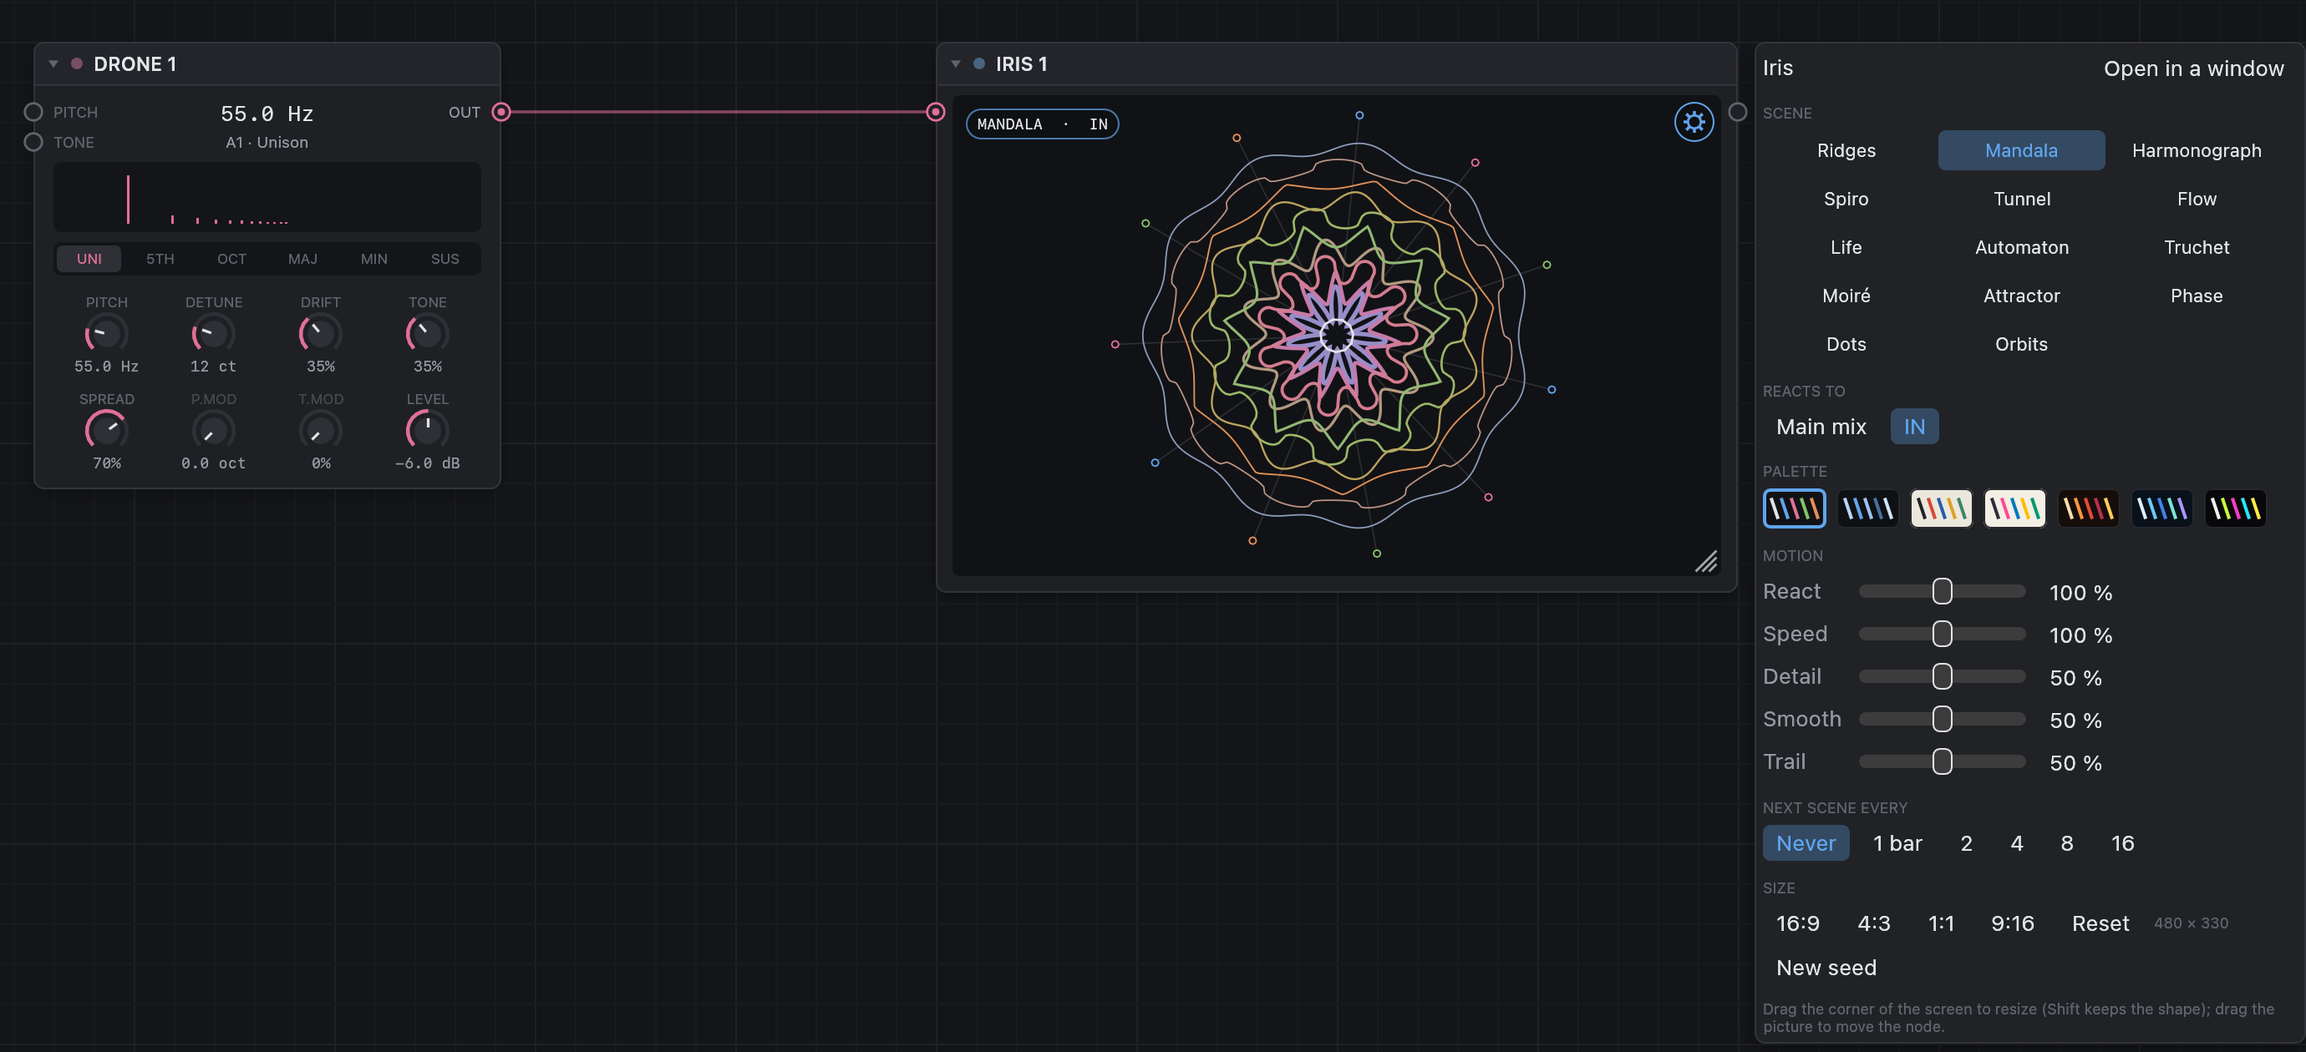
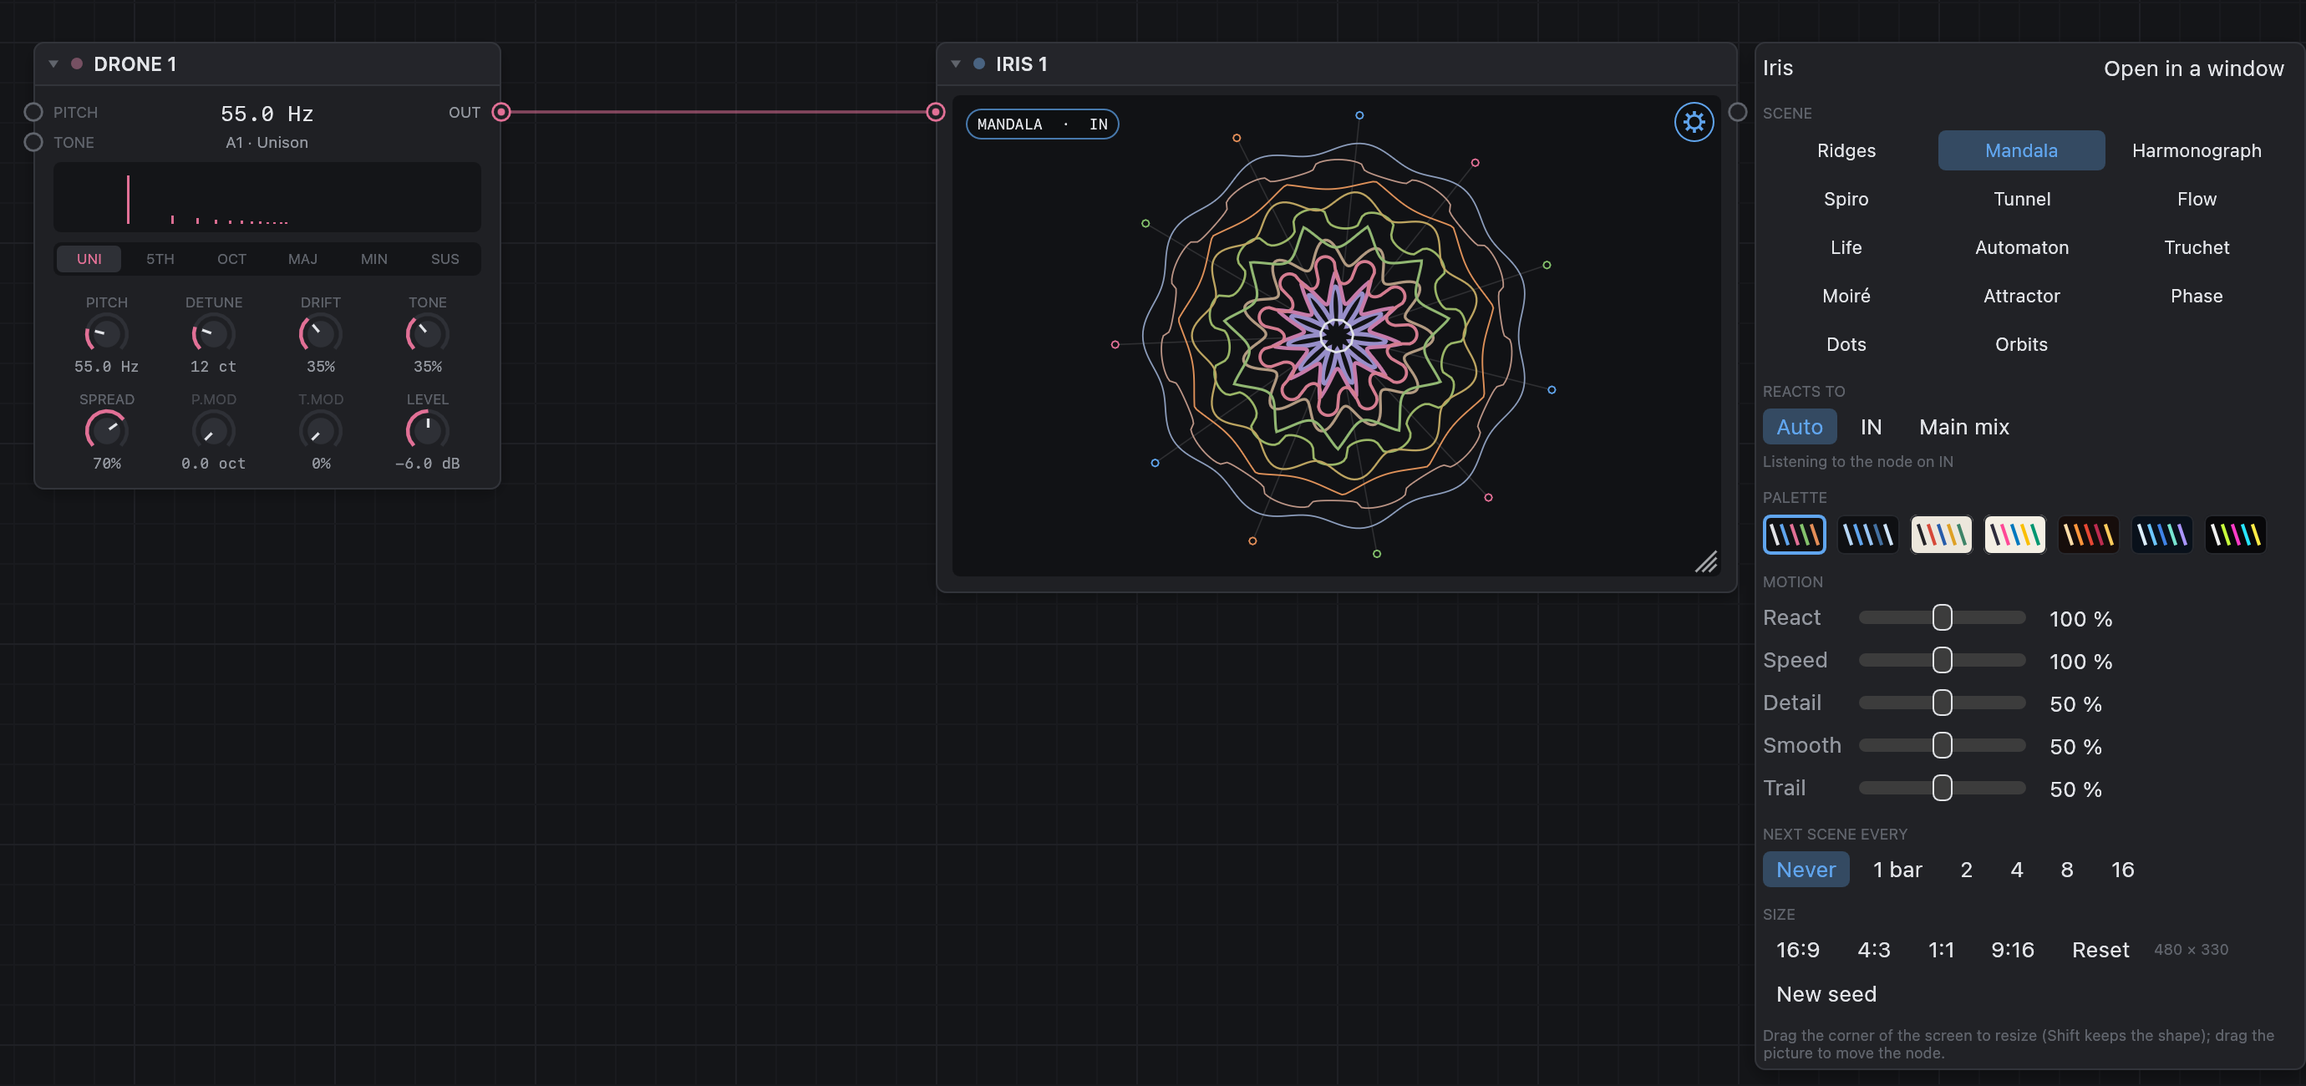
fixed viz

diff --git a/website/nodes.html b/website/nodes.html
@@ -646,16 +646,16 @@
     <article class="card" id="node-iris" tabindex="0" role="button" data-group="visual" data-group-label="Visual" data-name="Iris" data-after="fourteen scenes: geometric, mathematical, generative" data-shots="assets/shots/iris-mandala.png|MANDALA,assets/shots/iris-ridges.png|RIDGES,assets/shots/iris-harmonograph.png|HARMONOGRAPH,assets/shots/iris-spiro.png|SPIRO,assets/shots/iris-tunnel.png|TUNNEL,assets/shots/iris-flow.png|FLOW,assets/shots/iris-life.png|LIFE,assets/shots/iris-automaton.png|AUTOMATON,assets/shots/iris-truchet.png|TRUCHET,assets/shots/iris-moire.png|MOIRE,assets/shots/iris-attractor.png|ATTRACTOR,assets/shots/iris-phase.png|PHASE,assets/shots/iris-dots.png|DOTS,assets/shots/iris-orbits.png|ORBITS" data-keys="video visuals visualizer vj scope spectrum mandala tunnel truchet moire attractor life automaton harmonograph spirograph" style="--accent: var(--yellow)">
       <div class="thumb"><img src="assets/shots/iris-mandala.png" width="1136" height="772" loading="lazy" alt="Iris showing its Mandala scene"></div>
       <div class="meta"><div class="row"><h3>Iris</h3><span class="label">Video</span></div>
-        <p>A screen on the board with fourteen scenes that follow the main mix or the node on its IN. Resize it from its corner; set it up in a popup beside it.</p></div>
+        <p>A screen on the board with fourteen scenes that follow the node on its IN, or the main mix while IN is free. Resize it from its corner; set it up in a popup beside it.</p></div>
       <div class="more">
-        <p>It listens to the <b>main mix</b> (with nothing patched) or to its <b>IN</b>, so it can follow one node; <b>THRU</b> passes IN on unchanged, so Iris can sit inside a chain. It keeps running, with the nodes feeding it, even when THRU goes nowhere.</p>
+        <p>It listens to the node patched into its <b>IN</b>, and only that one, or to the <b>main mix</b> while IN is free (<b>Auto</b>); the settings can force <b>IN</b> or <b>Main mix</b>. <b>THRU</b> passes IN on unchanged, so Iris can sit inside a chain. It keeps running, with the nodes feeding it, even when THRU goes nowhere.</p>
         <ul>
           <li><b>Geometric.</b> Mandala (rings of petals, 5- to 16-fold symmetry), Tunnel (polygons flying out of a vanishing point), Truchet (tiles flipping in waves on onsets), Moiré (overprinted rings), Dots (a dot-matrix spectrum), Orbits (planets in a polyrhythm).</li>
           <li><b>Mathematical.</b> Harmonograph (a damped pendulum drawing), Spiro (nested hypotrochoids), Attractor (a Clifford attractor drifting with the sound), Phase (the sound against itself: a tone draws a circle), Ridges (pulsar lines scrolling up).</li>
           <li><b>Generative.</b> Flow (particles on a flow field, bursting on onsets), Life (Conway's Game of Life seeded by the spectrum), Automaton (an elementary cellular automaton the spectrum writes into, changing rule on onsets).</li>
           <li><b>Analysis.</b> A 2048-point spectrum in 32 bands, level, bass, mids, highs, pitch and onsets, all on the UI thread: the audio thread only copies samples.</li>
           <li><b>The screen.</b> Drag the picture to move the node, the corner grip to resize it (Shift keeps its shape). The scene's name, the gear and the grip show only under the pointer.</li>
-          <li><b>Settings</b> in a popup beside the node: scene, source, seven palettes (Board, Mono, Paper, Riso, Ember, Ice, Acid), REACT, SPEED, DETAIL, SMOOTH, TRAIL, a new scene every 1 to 16 bars, the screen's shape, a new seed.</li>
+          <li><b>Settings</b> in a popup beside the node: scene, source (Auto, IN, Main mix), seven palettes (Board, Mono, Paper, Riso, Ember, Ice, Acid), REACT, SPEED, DETAIL, SMOOTH, TRAIL, a new scene every 1 to 16 bars, the screen's shape, a new seed.</li>
           <li><b>Open in a window</b> for a second display or a projector; double-click for full screen.</li>
         </ul>
       </div>

diff --git a/website/guide.html b/website/guide.html
@@ -196,13 +196,13 @@
     <section id="iris">
       <h2><span class="n">10</span>Visuals: Iris</h2>
       <figure>
-        <img src="assets/shots/iris-ui-1x.png" srcset="assets/shots/iris-ui-1x.png 1380w, assets/shots/iris-ui.png 2760w" sizes="(max-width: 900px) 100vw, 820px" width="1380" height="630" loading="lazy" alt="A Drone patched into Iris, which shows its Mandala scene; the settings popup is open beside the node, with the scenes, the source, the palettes and the motion sliders." data-zoom="assets/shots/iris-ui.png" data-title="Iris and its settings">
+        <img src="assets/shots/iris-ui-1x.png" srcset="assets/shots/iris-ui-1x.png 1380w, assets/shots/iris-ui.png 2760w" sizes="(max-width: 900px) 100vw, 820px" width="1380" height="650" loading="lazy" alt="A Drone patched into Iris, which shows its Mandala scene; the settings popup is open beside the node, with the scenes, the source, the palettes and the motion sliders." data-zoom="assets/shots/iris-ui.png" data-title="Iris and its settings">
         <figcaption>Iris following a Drone on its IN, with its settings open beside it</figcaption>
       </figure>
-      <p><strong>Iris</strong> (in the <strong>Visual</strong> group) is a screen on the board where visuals react to the sound. With nothing patched it follows the <strong>main mix</strong>; patch a node into its <strong>IN</strong> to follow that one. <strong>THRU</strong> passes the sound on unchanged, so Iris can sit inside a chain.</p>
+      <p><strong>Iris</strong> (in the <strong>Visual</strong> group) is a screen on the board where visuals react to the sound. Patch a node into its <strong>IN</strong> and it follows that node only; with IN free it follows the <strong>main mix</strong>, everything the board plays. The settings can force either one (<strong>Auto</strong>, <strong>IN</strong>, <strong>Main mix</strong>). <strong>THRU</strong> passes the sound on unchanged, so Iris can sit inside a chain.</p>
       <ul>
         <li><strong>Move and resize</strong>: drag the picture to move the node; while the pointer is over it, a grip appears in the bottom right corner: drag it to resize the screen (<kbd>Shift</kbd> keeps its shape). The scene's name shows at the top left.</li>
-        <li><strong>Settings</strong>: the gear at the top right opens them in a popup <em>beside</em> the node, so the picture stays in view: the scene (fourteen: geometric, mathematical, generative), Main mix or IN, seven palettes, React, Speed, Detail, Smooth, Trail, a new scene every 1 to 16 bars, the screen's shape and a new seed.</li>
+        <li><strong>Settings</strong>: the gear at the top right opens them in a popup <em>beside</em> the node, so the picture stays in view: the scene (fourteen: geometric, mathematical, generative), Auto, IN or Main mix, seven palettes, React, Speed, Detail, Smooth, Trail, a new scene every 1 to 16 bars, the screen's shape and a new seed.</li>
         <li><strong>Open in a window</strong>: the picture in a window of its own, for a second display or a projector. Double-click it for full screen; <kbd>Esc</kbd> leaves full screen, then closes it. It keeps playing when the node is off the view.</li>
       </ul>
       <p>Every scene is in the <a href="nodes.html#node-iris">catalogue</a>, with a picture of each.</p>

diff --git a/src/ui/iris.rs b/src/ui/iris.rs
@@ -72,7 +72,8 @@ pub fn scene_name(i: usize) -> String {
 }
 
 pub fn readout(p: &ModuleParams) -> (String, String) {
-    let source = if iris::listens_to_input(p) { "IN" } else { "main mix" };
+    // What the processor listens to now (Auto follows the cable).
+    let source = if p.viz[viz::FROM_INPUT].get() > 0.5 { "IN" } else { "main mix" };
     (scene_name(scene_of(p)), format!("{} · {}", source, PALETTES[palette_index(p)].name))
 }
 
@@ -1399,7 +1400,7 @@ pub fn draw(v: &NodeView, id: NodeId, accent: Color32, m: &ModuleNode, (input, _
     let now = v.ui.input(|i| i.time);
     let pal = Pal::of(palette_index(p), accent);
     let scene = scene_of(p);
-    let listens_in = iris::listens_to_input(p);
+    let listens_in = iris::listens_to_input(p, input);
     let hovered = v.ui.rect_contains_pointer(v.r(0.0, 0.0, size.x, size.y)) || show_controls();
 
     // The screen and its picture.
@@ -1729,19 +1730,25 @@ fn settings(ui: &mut Ui, id: NodeId, p: &ModuleParams, accent: Color32, input: b
     });
 
     heading(ui, "REACTS TO");
-    let mut source = iris::listens_to_input(p);
+    let source = p.data[data::SOURCE].get().round();
     ui.horizontal(|ui| {
-        if ui.selectable_label(!source, "Main mix").clicked() {
-            source = false;
-        }
-        if ui.selectable_label(source, "IN").clicked() {
-            source = true;
-        }
-        if source && !input {
-            ui.label(RichText::new("nothing patched").small().color(theme::TEXT_FAINT));
+        for (value, label, tip) in [
+            (iris::AUTO, "Auto", "The node patched into IN; the main mix while IN is free"),
+            (iris::INPUT, "IN", "Only what is patched into IN"),
+            (iris::MAIN, "Main mix", "Everything the board plays, even with IN patched"),
+        ] {
+            if ui.selectable_label(source == value, label).on_hover_text(tip).clicked() {
+                p.data[data::SOURCE].set(value);
+            }
         }
     });
-    p.data[data::SOURCE].set(if source { 1.0 } else { 0.0 });
+    let now = match (iris::listens_to_input(p, input), input) {
+        (true, true) => "Listening to the node on IN",
+        (true, false) => "Nothing patched into IN",
+        (false, true) => "Listening to the main mix (IN only goes on to THRU)",
+        (false, false) => "Listening to the main mix",
+    };
+    ui.label(RichText::new(now).small().color(theme::TEXT_FAINT));
 
     heading(ui, "PALETTE");
     let current = palette_index(p);

diff --git a/src/audio/modules/iris.rs b/src/audio/modules/iris.rs
@@ -55,7 +55,8 @@ pub mod data {
     /// The panel's size, in board units (the user resizes it).
     pub const W: usize = 0;
     pub const H: usize = 1;
-    /// What it listens to: 0 the main mix, 1 its IN.
+    /// What it listens to: [`super::AUTO`], [`super::INPUT`] or
+    /// [`super::MAIN`].
     pub const SOURCE: usize = 2;
     /// Index into the panel's palettes.
     pub const PALETTE: usize = 3;
@@ -81,10 +82,19 @@ pub mod viz {
     pub const SR: usize = 1;
     /// 1 while sound arrives from the chosen source (0: IN unpatched).
     pub const LIVE: usize = 2;
+    /// What it listens to now: 1 its IN, 0 the main mix.
+    pub const FROM_INPUT: usize = 3;
     /// The ring: sample `n` sits at `RING + n % super::RING`.
-    pub const RING: usize = 3;
+    pub const RING: usize = 4;
     pub const LEN: usize = RING + super::RING;
 }
+
+/// Listens to IN when a cable is plugged into it, to the main mix otherwise.
+pub const AUTO: f32 = 0.0;
+/// Always IN (nothing while unpatched).
+pub const INPUT: f32 = 1.0;
+/// Always the main mix, even with IN patched (IN still goes on to THRU).
+pub const MAIN: f32 = 2.0;
 
 pub static DEF: ModuleDef = ModuleDef {
     name: "Iris",
@@ -106,9 +116,16 @@ pub static DEF: ModuleDef = ModuleDef {
     viz: viz::LEN,
 };
 
-/// Listens to IN (true) or to the main mix.
-pub fn listens_to_input(p: &ModuleParams) -> bool {
-    p.data[data::SOURCE].get() >= 0.5
+/// Listens to IN (true) or to the main mix, with IN `patched` or not.
+pub fn listens_to_input(p: &ModuleParams, patched: bool) -> bool {
+    let source = p.data[data::SOURCE].get().round();
+    if source == INPUT {
+        true
+    } else if source == MAIN {
+        false
+    } else {
+        patched
+    }
 }
 
 pub struct Iris {
@@ -148,7 +165,9 @@ impl Processor for Iris {
                 out[1][..n].fill(0.0);
             }
         }
-        let live = if listens_to_input(&self.params) {
+        let from_input = listens_to_input(&self.params, input.is_some());
+        self.params.viz[viz::FROM_INPUT].set(if from_input { 1.0 } else { 0.0 });
+        let live = if from_input {
             self.seen = None;
             match input {
                 Some(b) => {

diff --git a/src/tests.rs b/src/tests.rs
@@ -7658,6 +7658,52 @@ fn iris_listens_to_the_main_mix() {
     assert!(!g.node(iris).unwrap().is_effect());
 }
 
+/// Zero crossings in the samples Iris handed to its panel: about twice
+/// the frequency it hears, per second of ring.
+fn iris_crossings(p: &ModuleParams) -> usize {
+    let ring = iris_ring(p);
+    ring.windows(2).filter(|w| (w[0] < 0.0) != (w[1] < 0.0)).count()
+}
+
+#[test]
+fn iris_follows_the_node_on_its_in_and_not_the_rest_of_the_mix() {
+    use crate::audio::modules::iris::{self, data, viz};
+    let (mut g, a, mut e) = setup();
+    // A low tone into Iris, a high one straight into the mixer.
+    let low = g.add_osc(pos2(0.0, 0.0), &a);
+    osc_params(&g, low).set(osc::FREQ, 110.0);
+    let high = g.add_osc(pos2(0.0, 300.0), &a);
+    osc_params(&g, high).set(osc::FREQ, 1760.0);
+    let mix = g.add_mixer(pos2(900.0, 0.0), &a);
+    let iris_id = g.add_module(ModuleKind::Iris, pos2(400.0, 0.0), &a);
+    g.connect(port(high, 0), port(mix, 1), &a);
+    let p = module_params(&g, iris_id);
+    let settle = |e: &mut Engine| {
+        for _ in 0..4 {
+            render_buf(e, 2400);
+        }
+    };
+
+    // Auto, IN free: the main mix (the high tone).
+    settle(&mut e);
+    assert_eq!(p.viz[viz::FROM_INPUT].get(), 0.0);
+    assert!(iris_crossings(&p) > 200, "hears the mix: {}", iris_crossings(&p));
+
+    // Auto, IN patched: only the low tone, whatever else plays.
+    g.connect(port(low, 0), port(iris_id, 0), &a);
+    settle(&mut e);
+    assert_eq!(p.viz[viz::FROM_INPUT].get(), 1.0);
+    let n = iris_crossings(&p);
+    assert!(n < 40, "hears only its IN (110 Hz ≈ 19 crossings): {n}");
+    assert_eq!(crate::ui::iris::readout(&p).1.split(" · ").next(), Some("IN"));
+
+    // Main mix forced: the mix again, though IN is patched.
+    p.data[data::SOURCE].set(iris::MAIN);
+    settle(&mut e);
+    assert_eq!(p.viz[viz::FROM_INPUT].get(), 0.0);
+    assert!(iris_crossings(&p) > 200);
+}
+
 #[test]
 fn iris_draws_every_scene_and_resizes() {
     use crate::audio::modules::iris::{SCENES, data};

diff --git a/website/tools/site_snapshots.rs b/website/tools/site_snapshots.rs
@@ -551,11 +551,10 @@ mod site_snap {
             let mut s = scene(118.0);
             let id = add(&mut s, ModuleKind::Iris, 0.0, 0.0);
             module_params(&s.g, id).set_mode(1);
-            module_params(&s.g, id).data[md::iris::data::SOURCE].set(1.0);
             let f = feeder(&mut s, ModuleKind::Drone, 0.0);
             link(&mut s, f, 0, id, 0);
             crate::ui::iris::SHOW_CONTROLS.store(true, Ordering::Relaxed);
-            full_shot("iris-ui", FRAMES, &mut s, vec2(1700.0, 900.0), PPP);
+            full_shot("iris-ui", FRAMES, &mut s, vec2(1700.0, 940.0), PPP);
             crate::ui::iris::SHOW_CONTROLS.store(false, Ordering::Relaxed);
         }
 

diff --git a/README.md b/README.md
@@ -1066,9 +1066,10 @@ effected layer, each with its own level. MUTE on Mixer 1 leaves only the effecte
 graphic style (line art, dot matrices, coloured outlines; no glows). It is in the **Visual** group of the
 palette and of the right-click menu.
 
-- **What it listens to**: the **main mix** (what the board plays, with nothing patched) or its **IN**, so it
-  can follow one node: a drum machine, a bass line, a reverb's tail. **THRU** passes IN on unchanged, so Iris
-  can sit inside a chain; it is never an effect (no bypass), and it keeps running, with the nodes feeding it,
+- **What it listens to**: by default (**Auto**) the node patched into its **IN**, and only that one (a drum
+  machine, a bass line, a reverb's tail), or the **main mix** (everything the board plays) while IN is free.
+  The settings can also force **IN** (nothing while unpatched) or **Main mix** (even with IN patched).
+  **THRU** passes IN on unchanged, so Iris can sit inside a chain; it is never an effect (no bypass), and it keeps running, with the nodes feeding it,
   even when THRU goes nowhere.
 - **Fourteen scenes**:
   - geometric: **Mandala** (rings of petals with 5- to 16-fold symmetry, each ring a band), **Tunnel**
@@ -1090,11 +1091,11 @@ palette and of the right-click menu.
   bands from 30 Hz to 16 kHz (tilted +3 dB an octave, as music has less energy up high), the level, bass, mids
   and highs, the strongest pitch, and onsets (spectral flux over its own running average).
 - **The screen** fills the node. Drag the picture to move the node. While the pointer is over it, the
-  scene's name and what it listens to show at the top left, a **gear** at the top right and a **grip** at the
+  scene's name and what it listens to now (IN or MAIN) show at the top left, a **gear** at the top right and a **grip** at the
   bottom right: drag the grip to resize the node (Shift keeps its shape), from 240 × 170 to 2400 × 1600.
   When a scene changes by itself, its name shows for a moment.
 - **The gear** opens the settings in a popup beside the node, so the picture stays in view: the scene;
-  **Main mix** or **IN**; the **palette** (Board, Mono in the node's colour, Paper and Riso on light paper,
+  **Auto**, **IN** or **Main mix**, with a line saying what it listens to now; the **palette** (Board, Mono in the node's colour, Paper and Riso on light paper,
   Ember, Ice, Acid); **React** (how strongly it follows the sound), **Speed**, **Detail** (lines, particles,
   cells, symmetry), **Smooth** (how slowly the analysis lets go) and **Trail** (trails, echoes, histories);
   **Next scene every** 1 to 16 bars at the board's tempo (or never); the screen's shape (16:9, 4:3, 1:1,

diff --git a/website/README.md b/website/README.md
@@ -43,4 +43,4 @@ cargo test site_snapshots -- --ignored --nocapture
 SNAP=equalizer,patch-hero cargo test site_snapshots -- --ignored --nocapture
 ```
 
-and remove the line again. `patch-*-1x.png` are half-size copies for the page (`sips -Z 2400 patch-hero.png --out patch-hero-1x.png`). `patch-board` is the demo patch dressed with stickers on the Blueprint background, for the guide's Stickers and background section. `iris-<scene>` are Iris's fourteen scenes, each on a palette of its own (`SNAP_IRIS_PALETTE=2` puts them all on one), following a Drone and Pops 66; `iris-ui` shows its scene's name, gear and grip with the settings open, cropped to the nodes and the popup (`sips -c 1260 2760 --cropOffset 520 640 iris-ui.png`, then `sips -Z 1380 iris-ui.png --out iris-ui-1x.png`). `SNAP_DIR` writes the pictures somewhere else, to look at them without touching the site's.
+and remove the line again. `patch-*-1x.png` are half-size copies for the page (`sips -Z 2400 patch-hero.png --out patch-hero-1x.png`). `patch-board` is the demo patch dressed with stickers on the Blueprint background, for the guide's Stickers and background section. `iris-<scene>` are Iris's fourteen scenes, each on a palette of its own (`SNAP_IRIS_PALETTE=2` puts them all on one), following a Drone and Pops 66; `iris-ui` shows its scene's name, gear and grip with the settings open, cropped to the nodes and the popup (`sips -c 1300 2760 --cropOffset 560 640 iris-ui.png`, then `sips -Z 1380 iris-ui.png --out iris-ui-1x.png`). `SNAP_DIR` writes the pictures somewhere else, to look at them without touching the site's.
